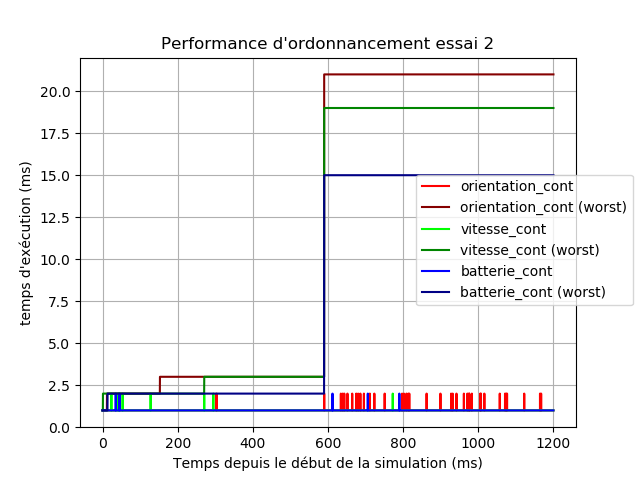
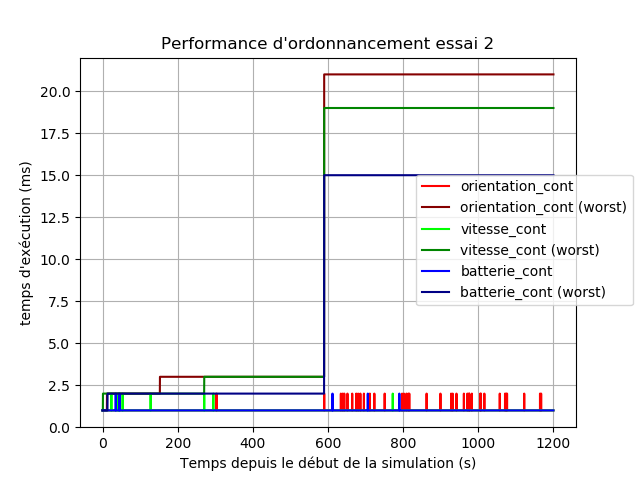
par 2

Changed region(s): [[0.2812, 0.9375, 0.75, 1.0]]

diff --git a/generate_graphs.py b/generate_graphs.py
@@ -37,7 +37,7 @@ savefig("csv_try1.png")
 fig = figure()
 ax=axes()
 ax.set_ylabel("temps d'exécution (ms)")
-ax.set_xlabel('Temps depuis le début de la simulation (ms)')
+ax.set_xlabel('Temps depuis le début de la simulation (s)')
 ax.set_title("Performance d'ordonnancement essai 2")
 plot(try2["pas de simulation (ms)"]/1000, try2["orientation_cont last runtime"], color="#ff0000", label="orientation_cont")
 plot(try2["pas de simulation (ms)"]/1000, try2["orientation_cont worst runtime"], color="#850000", label="orientation_cont (worst)")
@@ -52,7 +52,7 @@ savefig("csv_try2.png")
 fig = figure()
 ax=axes()
 ax.set_ylabel("temps d'exécution (ms)")
-ax.set_xlabel('Temps depuis le début de la simulation (ms)')
+ax.set_xlabel('Temps depuis le début de la simulation (s)')
 ax.set_title("Performance d'ordonnancement essai 3")
 plot(try3["pas de simulation (ms)"]/1000, try3["orientation_cont last runtime"], color="#ff0000", label="orientation_cont")
 plot(try3["pas de simulation (ms)"]/1000, try3["orientation_cont worst runtime"], color="#850000", label="orientation_cont (worst)")
@@ -67,7 +67,7 @@ savefig("csv_try3.png")
 fig = figure()
 ax=axes()
 ax.set_ylabel("temps d'exécution (ms)")
-ax.set_xlabel('Temps depuis le début de la simulation (ms)')
+ax.set_xlabel('Temps depuis le début de la simulation (s)')
 ax.set_title("Temps d'exécution d'orientation_cont")
 plot(try1["pas de simulation (ms)"]/1000, try1["orientation_cont last runtime"], color="#ff0000", label="essai 1")
 plot(try1["pas de simulation (ms)"]/1000, try1["orientation_cont worst runtime"], color="#850000", label="essai 1 (worst)")
